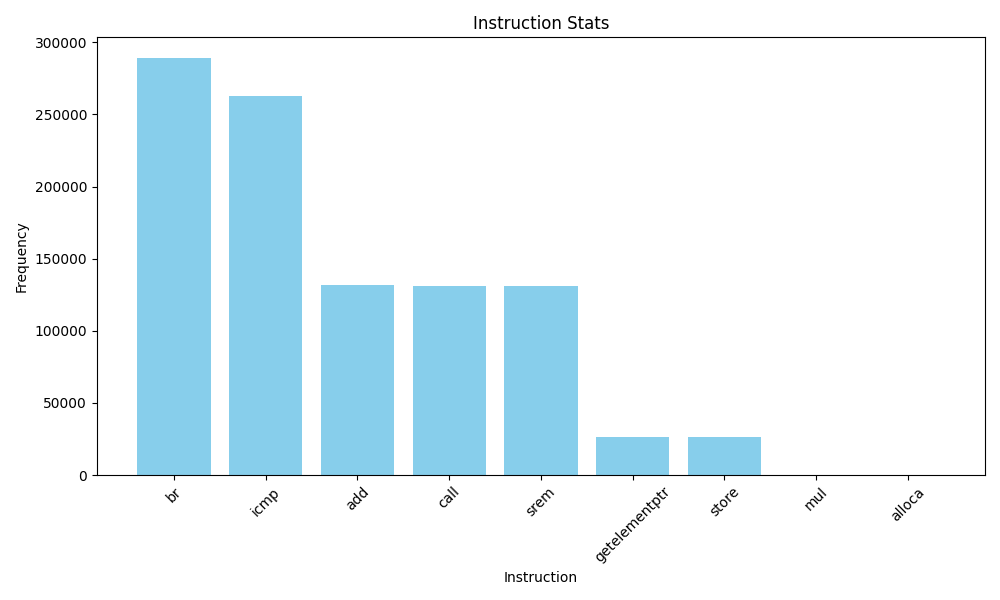
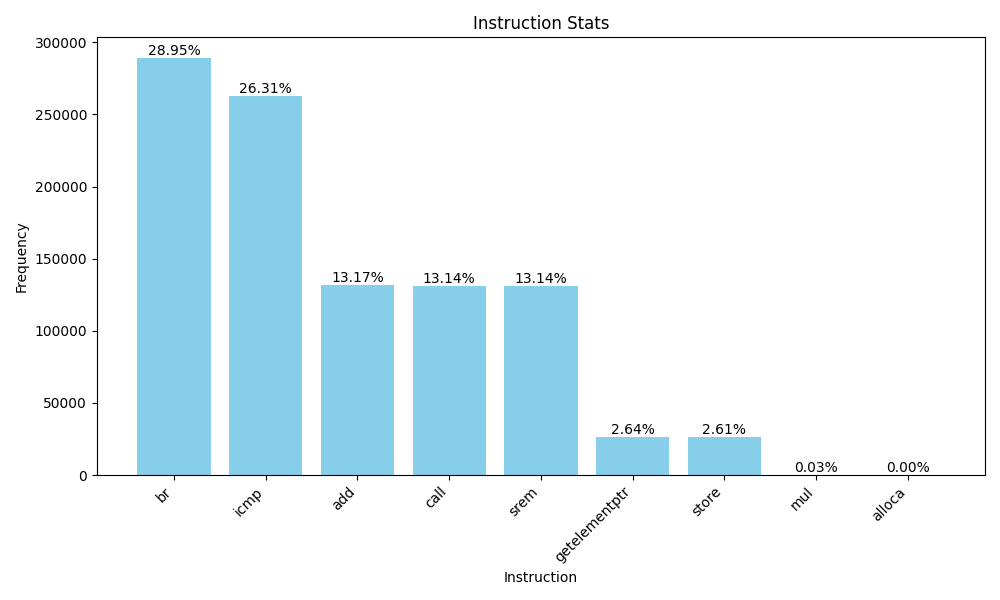
make graphs better

diff --git a/llvm_pass/generate_graph.py b/llvm_pass/generate_graph.py
@@ -21,35 +21,41 @@ def load_stats_from_file(filename):
     
     return instruction_stats, pattern_stats
 
+def plot_bar_with_percent(ax, stats, title, xlabel, ylabel, filename):
+    total = sum(stats.values())
+    keys = list(stats.keys())
+    values = list(stats.values())
+    
+    bars = ax.bar(keys, values, color='skyblue')
+
+    for bar, value in zip(bars, values):
+        percent = (value / total) * 100
+        ax.text(bar.get_x() + bar.get_width() / 2, bar.get_height(), f'{percent:.2f}%', ha='center', va='bottom')
+
+    ax.set_title(title)
+    ax.set_xlabel(xlabel)
+    ax.set_ylabel(ylabel)
+    ax.set_xticklabels(keys, rotation=45, ha='right')
+
 instruction_stats, pattern_stats = load_stats_from_file('../build/stats_output.txt')
 
-plt.figure(figsize=(10, 6))
-plt.bar(instruction_stats.keys(), instruction_stats.values(), color='skyblue')
-plt.title('Instruction Stats')
-plt.xlabel('Instruction')
-plt.ylabel('Frequency')
-plt.xticks(rotation=45)
+fig, ax = plt.subplots(figsize=(10, 6))
+plot_bar_with_percent(ax, instruction_stats, 'Instruction Stats', 'Instruction', 'Frequency', 'instruction_stats.png')
 plt.tight_layout()
-plt.savefig('instruction_stats.png') 
+plt.savefig('instruction_stats.png')
 
-plt.figure(figsize=(14, 8))
-top_patterns = dict(list(pattern_stats.items())[:10]) 
-plt.bar(top_patterns.keys(), top_patterns.values(), color='lightgreen')
-plt.title('Top 10 Patterns Stats')
-plt.xlabel('Patterns')
-plt.ylabel('Frequency')
-plt.xticks(rotation=90)
+top_patterns = dict(list(pattern_stats.items())[:10])
+
+fig, ax = plt.subplots(figsize=(14, 8))
+plot_bar_with_percent(ax, top_patterns, 'Top 10 Patterns Stats', 'Patterns', 'Frequency', 'pattern_stats.png')
 plt.tight_layout()
-plt.savefig('pattern_stats.png') 
+plt.savefig('pattern_stats.png')
 
 instruction_stats, pattern_stats = load_stats_from_file('../build/stats_uses_output.txt')
-plt.figure(figsize=(10, 6))
-plt.bar(instruction_stats.keys(), instruction_stats.values(), color='skyblue')
-plt.title('Instruction Stats')
-plt.xlabel('Instruction')
-plt.ylabel('Frequency')
-plt.xticks(rotation=45)
+
+fig, ax = plt.subplots(figsize=(10, 6))
+plot_bar_with_percent(ax, instruction_stats, 'Instruction Uses Stats', 'Instruction', 'Frequency', 'instruction_uses_stats.png')
 plt.tight_layout()
-plt.savefig('instruction_uses_stats.png') 
+plt.savefig('instruction_uses_stats.png')
 
 plt.show()
